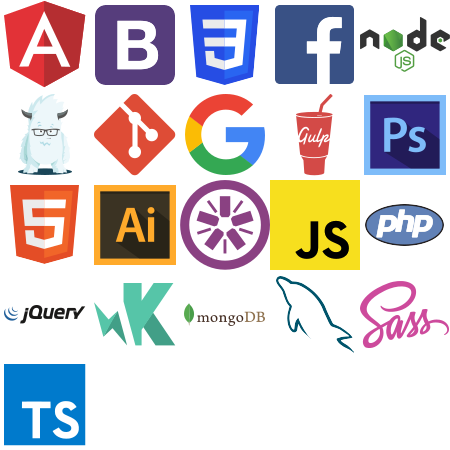
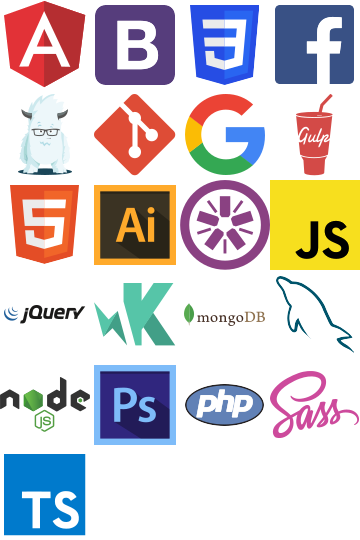
UPDATE: expertin section

diff --git a/src/app/components/mastery/mastery.scss b/src/app/components/mastery/mastery.scss
@@ -29,13 +29,16 @@
 .bg-gulp,
 .bg-html,
 .bg-illustrator,
+.bg-jasmine,
 .bg-javascript,
 .bg-jquery,
 .bg-karma,
 .bg-mongo,
 .bg-mysql,
+.bg-nodejs,
 .bg-photoshop,
 .bg-php,
+.bg-sass,
 .bg-typescript {
     display: inline-block;
     background: url('/assets/img/expertin-min.png') no-repeat;
@@ -104,50 +107,68 @@
     height: 90px;
 }
 
-.bg-javascript {
+.bg-jasmine {
     background-position: -180px -180px;
     width: 90px;
     height: 90px;
 }
 
-.bg-jquery {
+.bg-javascript {
     background-position: -270px -180px;
     width: 90px;
     height: 90px;
 }
 
-.bg-karma {
+.bg-jquery {
     background-position: -0px -270px;
     width: 90px;
     height: 90px;
 }
 
-.bg-mongo {
+.bg-karma {
     background-position: -90px -270px;
     width: 90px;
     height: 90px;
 }
 
-.bg-mysql {
+.bg-mongo {
     background-position: -180px -270px;
     width: 90px;
     height: 90px;
 }
 
-.bg-photoshop {
+.bg-mysql {
     background-position: -270px -270px;
     width: 90px;
     height: 90px;
 }
 
-.bg-php {
+.bg-nodejs {
     background-position: -0px -360px;
     width: 90px;
     height: 90px;
 }
 
-.bg-typescript {
+.bg-photoshop {
     background-position: -90px -360px;
+    width: 90px;
+    height: 90px;
+}
+
+.bg-php {
+    background-position: -180px -360px;
+    width: 90px;
+    height: 90px;
+}
+
+.bg-sass {
+    background-position: -270px -360px;
+    width: 90px;
+    height: 90px;
+}
+
+.bg-typescript {
+    background-position: -0px -450px;
     width: 90px;
     height: 90px;
 }
